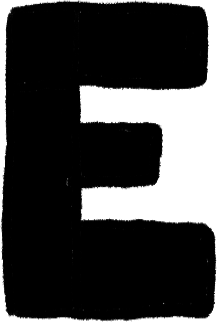
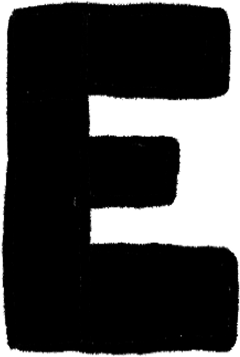
Use hand-drawn art for all note letters
Replace the text fallback for A-G with the Letters variants exported
from Figma, cropped into assets/tuner with their positions in the
manifest. Octave digits other than 6 still fall back to text.

diff --git a/src/tuner/artwork.ts b/src/tuner/artwork.ts
@@ -30,13 +30,27 @@ export const IMAGES: Record<LayerKey, ImageSourcePropType> = {
   lightRight: require('../../assets/tuner/lightRight.png'),
   flat: require('../../assets/tuner/flat.png'),
   sharp: require('../../assets/tuner/sharp.png'),
+  letterA: require('../../assets/tuner/letterA.png'),
+  letterB: require('../../assets/tuner/letterB.png'),
+  letterC: require('../../assets/tuner/letterC.png'),
+  letterD: require('../../assets/tuner/letterD.png'),
   letterE: require('../../assets/tuner/letterE.png'),
+  letterF: require('../../assets/tuner/letterF.png'),
+  letterG: require('../../assets/tuner/letterG.png'),
   number6: require('../../assets/tuner/number6.png'),
 };
 
-// Only E and 6 have been exported from Figma so far; other glyphs fall back
-// to text until their art is added.
-export const LETTER_ART: Partial<Record<Letter, LayerKey>> = { E: 'letterE' };
+export const LETTER_ART: Record<Letter, LayerKey> = {
+  A: 'letterA',
+  B: 'letterB',
+  C: 'letterC',
+  D: 'letterD',
+  E: 'letterE',
+  F: 'letterF',
+  G: 'letterG',
+};
+// Only 6 has been exported from Figma so far; other digits fall back to text
+// until their art is added.
 export const NUMBER_ART: Partial<Record<number, LayerKey>> = { 6: 'number6' };
 
 // Where the note letter and octave sit inside the display window.

diff --git a/CLAUDE.md b/CLAUDE.md
@@ -12,4 +12,5 @@ The tuner screen is "Test Block 5" on the Design page; "Test Block 4 - Assets" h
 
 - Artwork is stacked transparent layers in `assets/tuner/`, cropped to their bounds, with positions in the 414x896 design frame in `assets/tuner/manifest.json`. Component exports from Figma have the yellow frame fill baked in, so use the source image fills instead.
 - No Hz readout. Notes are spelled C♯ E♭ F♯ G♯ B♭.
-- Only the E letter and 6 numeral are exported so far; other glyphs fall back to text (`LETTER_ART` / `NUMBER_ART` in `src/tuner/artwork.ts`). The Sleep head is also missing.
+- All letters are exported. Only the 6 numeral is, so other octave digits fall back to text (`NUMBER_ART` in `src/tuner/artwork.ts`). The Sleep head is also missing.
+- Exporting a component variant from Figma as PNG at 3x gives a transparent full-frame 1242x2688 image: crop it to its bounds and record the rect in the manifest.
